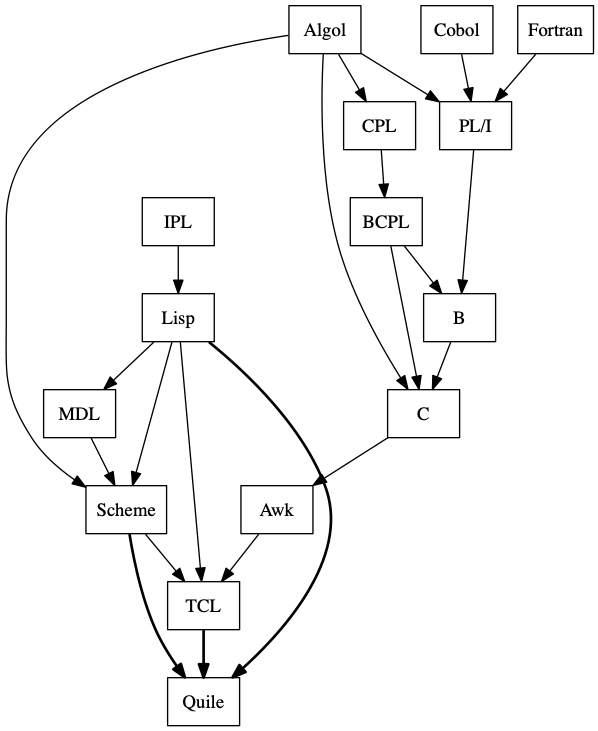
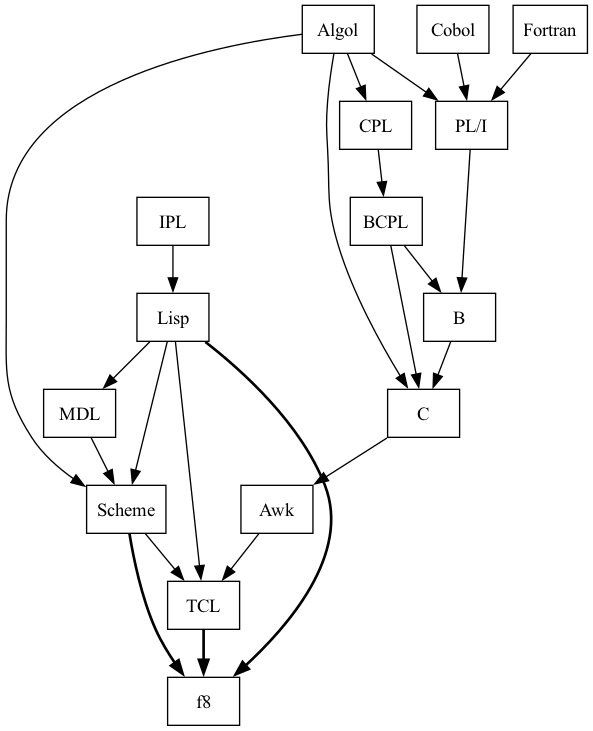
updated docs

diff --git a/README.md b/README.md
@@ -1,13 +1,13 @@
 # F8 (fate)
 
-The *f8* scripting language is a hybrid dialect of Lisp, Scheme and TCL: 
+The *F8 (fate)* scripting language is a hybrid dialect of Lisp, Scheme and TCL: 
 
 ![Genealogy](docs/f8_anchestors.png)
 
 It has been designed to be small, easy to expand and easy to embed in host applications. 
-The core of the language is made of a single [C++ header](src/core.h) (~ 1000 loc in total) and a  [small library](src/stdlib.tcl) written using *Quile* itself.
+The core of the language is made of a single [C++ header](src/core.h) (~ 1000 loc in total) and a  [small library](src/stdlib.tcl) written using *F8* itself.
 
-*Quile* includes several neat features among which:
+*F8* includes several neat features, among which:
 
 * homoiconicity and introspection
 * tail recursion
